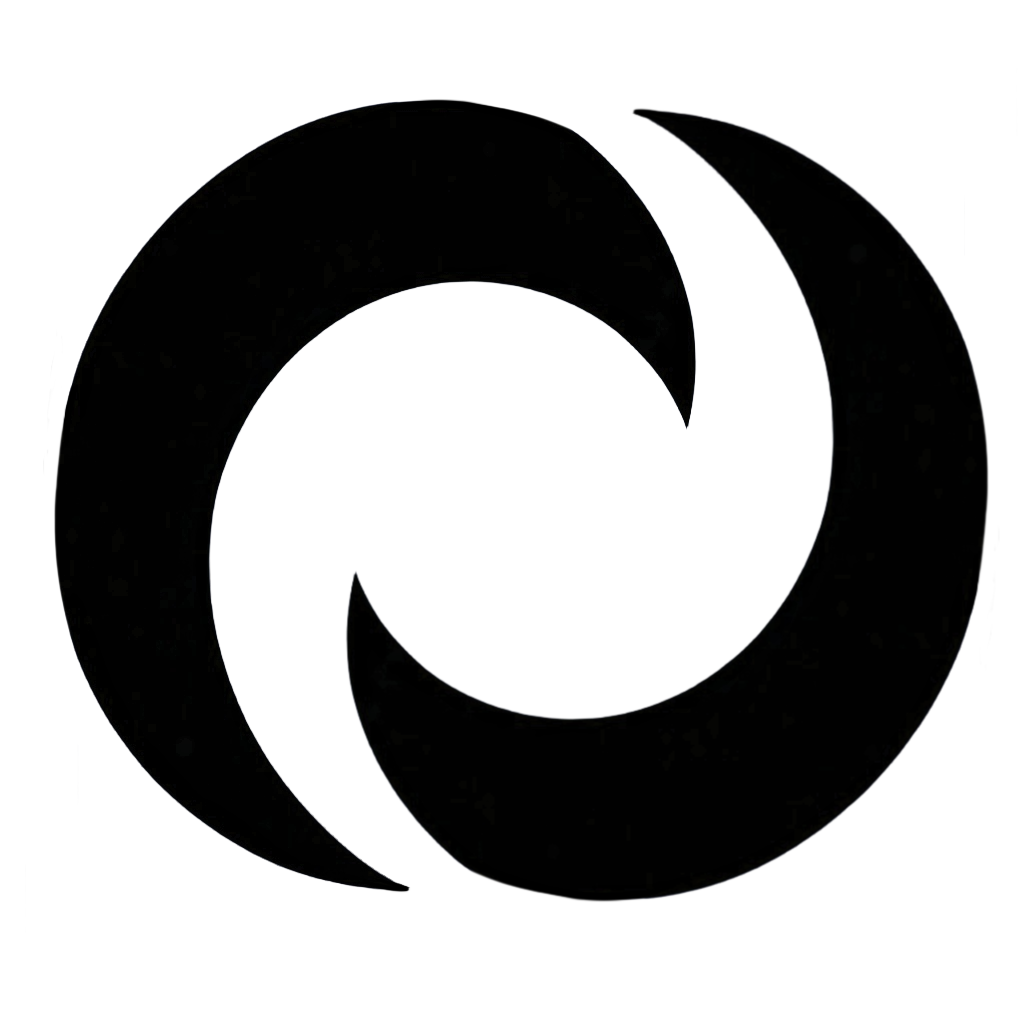
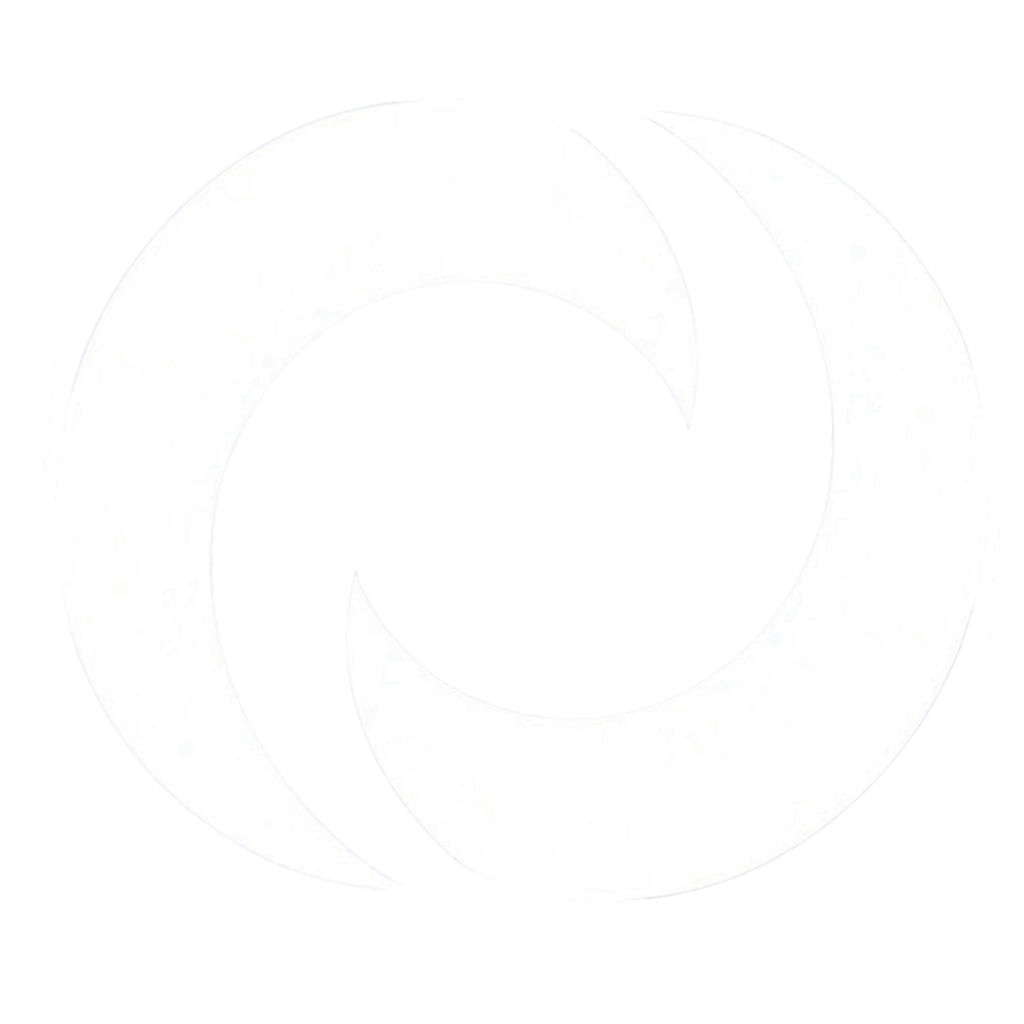
change color in loader

diff --git a/src/components/LogoAnimationHomepage.jsx b/src/components/LogoAnimationHomepage.jsx
@@ -1,5 +1,5 @@
-import cerchio from "../assets/logo-oro.png";
-import cornice from "../assets/cornice-oro.png";
+import cerchio from "../assets/cerchio.png";
+import cornice from "../assets/cornice.png";
 
 export default function LogoAnimation() {
   return (
